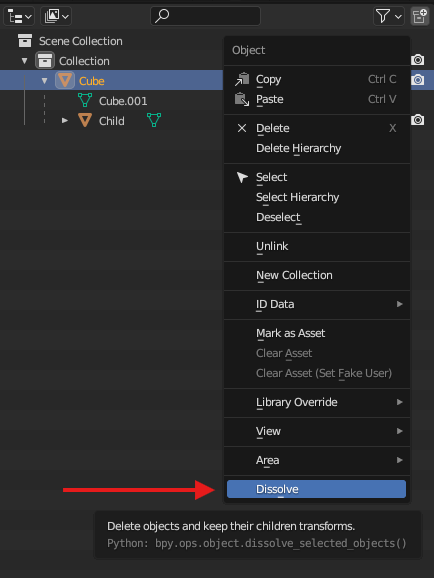
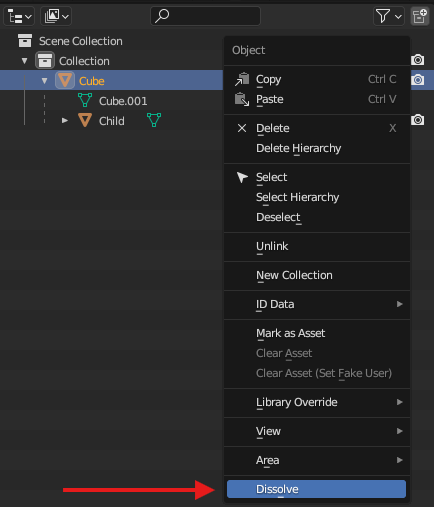
Better Description and clean images

diff --git a/dissolve_objects/__init__.py b/dissolve_objects/__init__.py
@@ -10,8 +10,8 @@ bl_info = {
     "category": "Object",
 }
 
-"""Delete selected objects while preserving their children's transforms and
-hierarchy by reparenting children to their closest parent.
+"""Delete selected objects while preserving their children's transforms and 
+hierarchy by reparenting them to the closest remaining parent.
 Useful when editing nested object hierarchies.
 Similar to Dissolve Bones for armatures.
 Optionally skip parents with sheared transforms or parents with children 
@@ -85,8 +85,8 @@ class DO_OT_DissolveObject(bpy.types.Operator):
     bl_idname = "object.dissolve_selected_objects"
     bl_label = "Dissolve"
     bl_description = (
-        "Delete selected objects while preserving their children's transforms and\n"
-        "hierarchy by reparenting children to their closest parent."
+        "Delete selected objects while preserving their children's transforms and \n"
+        "hierarchy by reparenting them to the closest remaining parent."
     )
     bl_options = {"REGISTER", "UNDO"}
 

diff --git a/README.md b/README.md
@@ -1,6 +1,6 @@
 # Blender Add-On: Dissolve Objects
 
-Delete selected objects while preserving their children's transforms and hierarchy by reparenting children to their closest parent.
+Delete selected objects while preserving their children's transforms and hierarchy by reparenting them to the closest remaining parent.
 
 Useful for editing nested object hierarchies, similar to **Dissolve Bones** for armatures.
 
